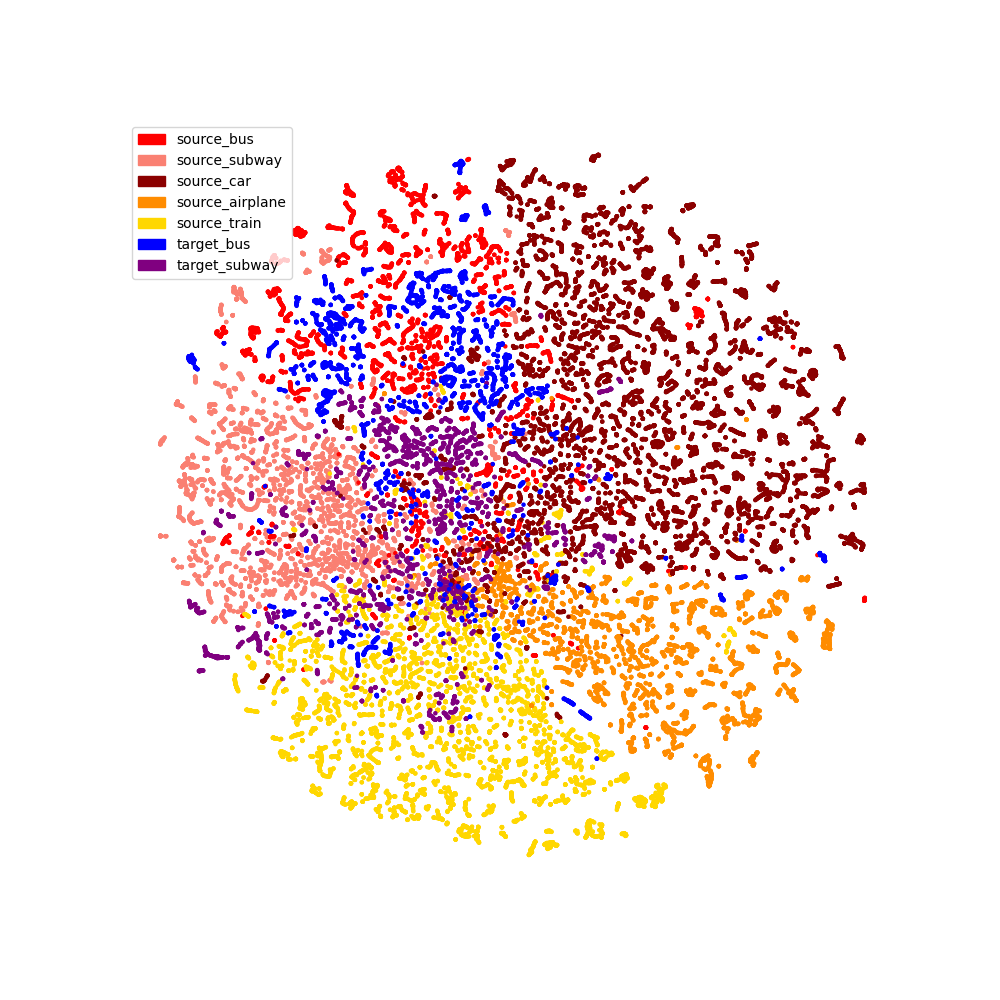
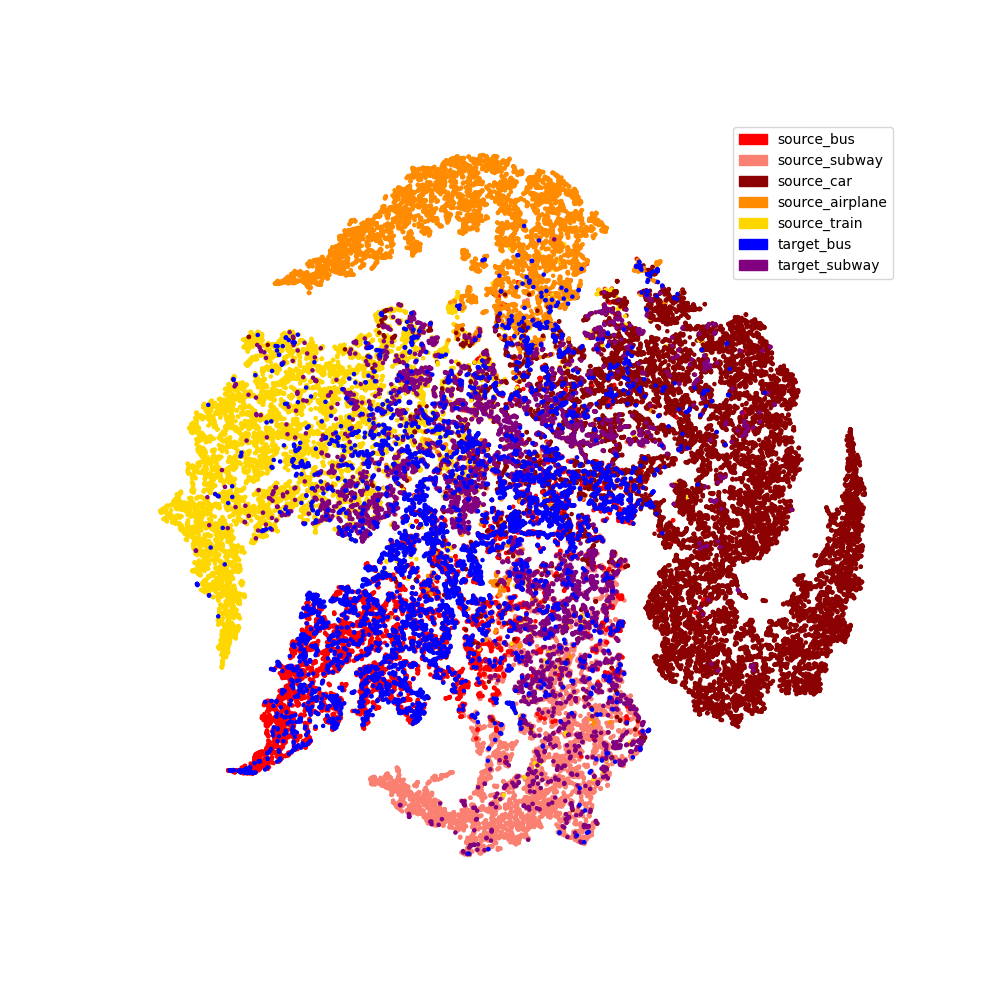
change the vanilla

Changed region(s): [[0.124, 0.124, 0.899, 0.868]]

diff --git a/models/LitTS.py b/models/LitTS.py
@@ -11,45 +11,73 @@ class LitTSVanilla(pl.LightningModule):
         self.mF = mF
         self.mG = mG
         self.accuracy = torchmetrics.Accuracy(task="multiclass", num_classes=n_class)
+        self.n_class = n_class
 
     def training_step(self, batch, batch_idx):
         tau = 0.5
 
+        # x, y = batch
+        # x_l, x_r = torch.chunk(x, 2, dim=2) # [batch_size, Channel, Length // 2]
+
+        # N = x_l.shape[0]
+        # out_left, out_right = self.mF(x_l), self.mF(x_r) # [batch_size, feature]
+        # out = torch.cat([out_left, out_right], dim=0) # [2 * batch_size, feature]
+
+        # # calculate sim matrix
+        # norm = out / torch.linalg.norm(out, dim=1, keepdim=True)
+        # sim_matrix = torch.mm(norm, norm.T) # [2 * batch_size, 2 * batch_size]
+
+        # exponential = torch.exp(sim_matrix / tau)
+    
+        # # This binary mask zeros out terms where k=i.
+        # mask = (torch.ones_like(exponential, device=self.device) - torch.eye(2 * N, device=self.device)).bool()
+    
+        # # We apply the binary mask.
+        # exponential = exponential.masked_select(mask).view(2 * N, -1)  # [2*N, 2*N-1]
+        # denom = torch.sum(exponential, dim=1, keepdim=True) # [2*N, 1]
+
+        # left_norm = out_left / torch.linalg.norm(out_left, keepdims=True, dim=1)
+        # right_norm = out_right / torch.linalg.norm(out_right, keepdims=True, dim=1)
+        # pos_pair = torch.sum(left_norm * right_norm, dim=1, keepdim=True) # [N, 1]
+
+        # pos_pair = torch.cat([pos_pair, pos_pair], dim=0) # [2*N, 1]
+        # numerator = torch.exp(pos_pair / tau)
+        # simclr_loss = torch.mean(-torch.log(numerator / denom))
+
+        # g_l = self.mG(out_left)
+        # g_r = self.mG(out_right)
+
+        # cls_loss = F.nll_loss(g_l, y) + F.nll_loss(g_r, y)
+
+        ######################################################
+
         x, y = batch
-        x_l, x_r = torch.chunk(x, 2, dim=2) # [batch_size, Channel, Length // 2]
+        N = x.shape[0]
+        f = self.mF(x)
+        g = self.mG(f)
+        cls_loss = F.nll_loss(g, y)
 
-        N = x_l.shape[0]
-        out_left, out_right = self.mF(x_l), self.mF(x_r) # [batch_size, feature]
-        out = torch.cat([out_left, out_right], dim=0) # [2 * batch_size, feature]
-
-        # calculate sim matrix
-        norm = out / torch.linalg.norm(out, dim=1, keepdim=True)
-        sim_matrix = torch.mm(norm, norm.T) # [2 * batch_size, 2 * batch_size]
-
-        exponential = torch.exp(sim_matrix / tau)
-    
+        numerator = torch.zeros((N, 1), device=self.device)
+        norm = f / torch.linalg.norm(f, dim=1, keepdim=True)
+        sim_matrix = torch.mm(norm, norm.T)
+        exp = torch.exp(sim_matrix / tau)
         # This binary mask zeros out terms where k=i.
-        mask = (torch.ones_like(exponential, device=self.device) - torch.eye(2 * N, device=self.device)).bool()
-    
+        mask = (torch.ones_like(exp, device=self.device) - torch.eye(N, device=self.device)).bool()
         # We apply the binary mask.
-        exponential = exponential.masked_select(mask).view(2 * N, -1)  # [2*N, 2*N-1]
-        denom = torch.sum(exponential, dim=1, keepdim=True) # [2*N, 1]
+        exponential = exp.masked_select(mask).view(N, -1)  # [N, N-1]
+        denom = torch.sum(exponential, dim=1, keepdim=True) # [N, 1]
 
-        left_norm = out_left / torch.linalg.norm(out_left, keepdims=True, dim=1)
-        right_norm = out_right / torch.linalg.norm(out_right, keepdims=True, dim=1)
-        pos_pair = torch.sum(left_norm * right_norm, dim=1, keepdim=True) # [N, 1]
-
-        pos_pair = torch.cat([pos_pair, pos_pair], dim=0) # [2*N, 1]
-        numerator = torch.exp(pos_pair / tau)
+        one_hot = F.one_hot(y, num_classes=self.n_class).float()
+        class_num = torch.sum(one_hot, dim=0)
+        class_num = torch.gather(class_num, dim=0, index=y)
+        numerator = torch.mm(exp, one_hot)
+        numerator = (torch.gather(numerator, dim=1, index=y.unsqueeze(1)) - torch.diagonal(exp)) / (class_num.unsqueeze(1) - 1)
         simclr_loss = torch.mean(-torch.log(numerator / denom))
 
-        g_l = self.mG(out_left)
-        g_r = self.mG(out_right)
-
-        cls_loss = F.nll_loss(g_l, y) + F.nll_loss(g_r, y)
+        self.log('accuracy', self.accuracy(g, y), prog_bar=True)
         self.log('simclr_loss', simclr_loss, prog_bar=True)
         self.log('cls_loss', cls_loss, prog_bar=True)
-        loss = 0.5 * simclr_loss + cls_loss
+        loss = simclr_loss + cls_loss
 
         return loss
     
@@ -73,5 +101,5 @@ class LitTSVanilla(pl.LightningModule):
 
 
     def configure_optimizers(self) -> Any:
-        optimizer = torch.optim.Adam(self.parameters(), lr=1e-3)
+        optimizer = torch.optim.Adam(self.parameters(), lr=1e-4)
         return optimizer

diff --git a/iwan.py b/iwan.py
@@ -43,7 +43,7 @@ def main(args: argparse.Namespace):
         backbone = MultiScaleFCN((args.N, args.L), hidden_size=args.hidden_size, kernel_sizes=[1, 3, 5, 7, 11])
         classifier = LinearClassifier(args.hidden_size*2, n_class)
 
-    domain_adv_D = DomainDiscriminator(args.hidden_size*2, [512], output_dim=1, batch_norm=False)
+    domain_adv_D = DomainDiscriminator(args.hidden_size*2, [512, 512], output_dim=1)
     domain_adv_D0 = DomainDiscriminator(args.hidden_size*2, [1024, 1024], batch_norm=False)
     
     if args.mode == "train":
@@ -113,6 +113,6 @@ if __name__ == "__main__":
     parser.add_argument("--pretrained", default=False, action='store_true')
     parser.add_argument("--pretrained_model", default="vanilla", type=str)
     parser.add_argument("--pretrained_ckpt", default="last.ckpt", type=str)
-    parser.add_argument("--pretrained_version", default=1, type=int)
+    parser.add_argument("--pretrained_version", default=3, type=int)
     args = parser.parse_args()
     main(args)

diff --git a/vanilla.py b/vanilla.py
@@ -31,7 +31,7 @@ def main(args: argparse.Namespace):
     mG = LinearClassifier(args.hidden_size*2, n_class)
 
     if args.mode == "train":
-        train_dataloader = get_dataloader(os.path.join(args.data_src_dir, 'trn.json'), 2*args.L, args.test_stride, args.batch_size, shuffle=True,
+        train_dataloader = get_dataloader(os.path.join(args.data_src_dir, 'trn.json'), args.L, args.test_stride, args.batch_size, shuffle=True,
                                         label_mapping=label_mapping, num_workers=args.num_workers, removed_classes=args.removed_classes)
         valid_dataloader = get_dataloader(os.path.join(args.data_trg_dir, 'val.json'), args.L, args.test_stride, 2*args.batch_size, shuffle=False, 
                                     label_mapping=label_mapping, num_workers=args.num_workers, removed_classes=[*args.removed_classes, 3])

diff --git a/models/ImportanceWeightAdversarial.py b/models/ImportanceWeightAdversarial.py
@@ -82,9 +82,9 @@ class ImportanceWeightAdversarial(pl.LightningModule):
     
     def configure_optimizers(self) -> Any:
         if self.pretrained:
-            optimizer = torch.optim.RMSprop([
-                {'params': self.domain_adv_D.parameters(), 'lr':1e-3},
-                {'params': self.domain_adv_D0.parameters(), 'lr':1e-3},
+            optimizer = torch.optim.Adam([
+                {'params': self.domain_adv_D.parameters(), 'lr':1e-4},
+                {'params': self.domain_adv_D0.parameters(), 'lr':1e-4},
                 {'params': self.classifier.parameters(), 'lr':1e-5},
                 {'params': self.backbone.parameters(), 'lr':1e-5},
             ])

diff --git a/models/ImportanceWeightModule.py b/models/ImportanceWeightModule.py
@@ -12,7 +12,7 @@ def get_importance_weight(discriminator, feature):
     Returns:
         instance weight in shape :math:`(N, )`
     """
-    weight = 1. - discriminator(feature)
+    weight = 1. - discriminator(feature.detach())
     weight = weight / weight.mean()
     weight = weight.squeeze().detach()
     return weight

diff --git a/models/FCN.py b/models/FCN.py
@@ -96,7 +96,7 @@ class MultiScaleConvBlock(nn.Module):
     def forward(self, x: Tensor) -> Tensor:
         xs = [m(x) for m in self.ms]
         x = torch.cat(xs, dim=-2)
-        x = self.bn(x)
+        # x = self.bn(x)
         x = F.gelu(x)
         x = self.pooling(x)
         x = self.dropout(x)
